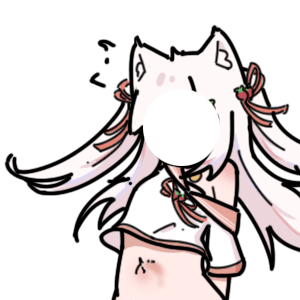
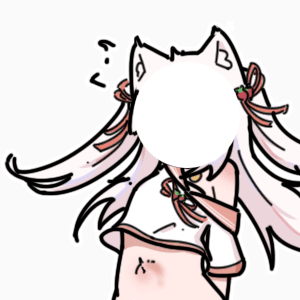
重新优化制作 躺撅 坐撅

diff --git a/emoji/sitdown_do/__init__.py b/emoji/sitdown_do/__init__.py
@@ -14,13 +14,13 @@ img_dir = Path(__file__).parent / "images"
 
 def sitdown_do(images: list[BuildImage], texts, args):
 
-    user_head = images[0].resize((165, 165)).convert("RGBA") #.circle()
+    user_head = images[0].resize((215, 215)).convert("RGBA") 
     
     # 初始化帧列表，用于存储每一帧图像
     frames: list[IMG] = []
 
     positions = [
-        (192, 100), (192, 115), (196, 160), # 1-3
+        (180, 55), (180, 68), (181, 111), # 1-3
     ]
 
     # 处理所有帧
@@ -48,5 +48,5 @@ add_meme(
     keywords=["坐撅"],  # 搜索关键词
     tags=MemeTags.wuthering_waves,
     date_created=datetime(2025, 8, 21),  # 创建日期
-    date_modified=datetime(2025, 8, 21),  # 修改日期
+    date_modified=datetime(2025, 9, 4),  # 修改日期
 )

diff --git a/emoji/laydown_do/__init__.py b/emoji/laydown_do/__init__.py
@@ -14,15 +14,15 @@ img_dir = Path(__file__).parent / "images"
 
 def laydown_do(images: list[BuildImage], texts, args):
 
-    user_head = images[0].resize((80, 80)).convert("RGBA") #.circle()
+    user_head = images[0].resize((110, 110)).convert("RGBA") 
     
     # 初始化帧列表，用于存储每一帧图像
     frames: list[IMG] = []
 
     positions = [
-        (144, 48), (145, 47), (142, 62),(142, 62), (142, 62), # 1-5
-        (142, 86), (142, 88), (143, 87),(142, 52), (142, 52), # 5-10
-        (142, 52), # 11
+        (135, 18), (135, 18), (136, 33),(136, 33), (136, 33), # 1-5
+        (133, 61), (133, 61), (133, 61),(138, 26), (138, 26), # 5-10
+        (138, 26), # 11
     ]
 
     # 处理所有帧
